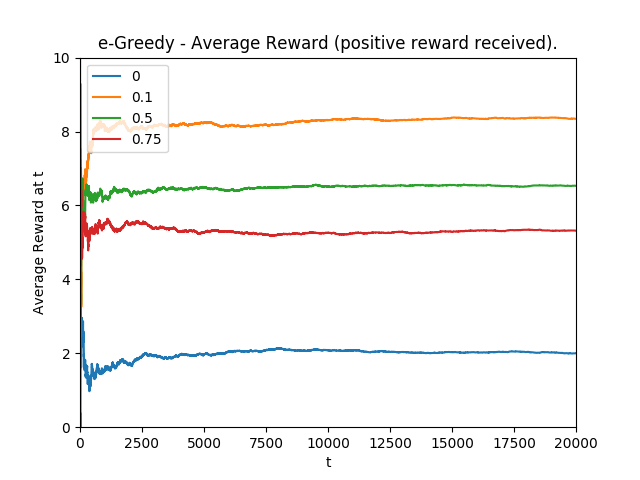
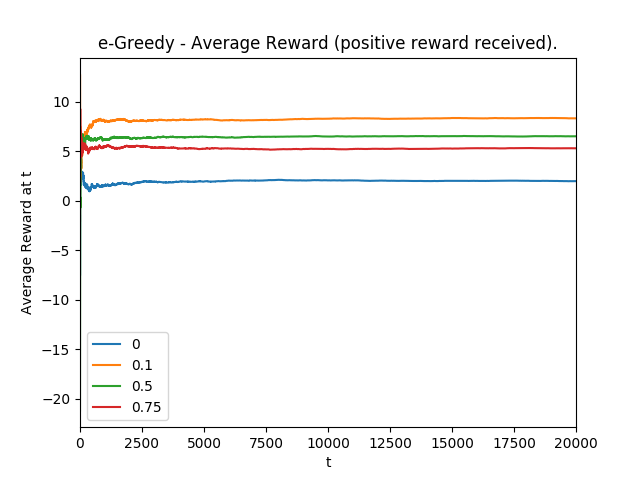
Updating the Incremental

diff --git a/RLBook/nArmedBandit/Incremental.py b/RLBook/nArmedBandit/Incremental.py
@@ -5,3 +5,146 @@
 *   From: 2.5
 
 """
+import numpy as np
+
+from RLBook.nArmedBandit.Extras import PolicyEnum
+
+DEFAULT_EPSILON = [0, 0.01, 0.1]
+np.random.seed(191989)
+
+
+class Incremental:
+    """ Incremental Policy Action
+    """
+    POLICY_TYPE = PolicyEnum.INCREMENTAL
+    ACTION_REWARDS = None
+    EPSILON = DEFAULT_EPSILON
+    ACTIONS = None
+    BANDITS = 1
+    TRIAL_COUNT = 1
+    EPSILON_COUNT = 3
+    ALPHA = None
+
+    def __init__(self, num, trials, epsilon=None, alpha=None):
+        """ Initialise a e-Greedy Policy
+
+            :param num:         Number of Bandits in use
+            :param trials:      Number of Trials to run for
+            :param epsilon:     List of Epsilons
+
+        """
+        # params:
+        self.N_BANDITS = num
+        self.TRIAL_COUNT = trials
+
+        if alpha is not None:
+            self.ALPHA = alpha
+
+        # Using alternative epsilons
+        if epsilon is not None:
+            self.EPSILON = epsilon
+            self.count_epsilons()
+
+        # Storage for Action Rewards
+        self.ACTION_REWARDS = np.zeros(shape=(num, self.EPSILON_COUNT))
+        self.ACTION_COUNTS = np.zeros(shape=(num, self.EPSILON_COUNT))
+
+        # Storage for Action Take
+        self.ACTIONS = np.zeros(shape=(trials, self.EPSILON_COUNT))
+
+    def __repr__(self):
+        return "< e-Greedy [nBandits {}, nTrials {}, epsilons {}] >".format(self.N_BANDITS,
+                                                                            self.TRIAL_COUNT,
+                                                                            self.EPSILON)
+
+    def count_epsilons(self):
+        self.EPSILON_COUNT = len(self.EPSILON)
+
+    def random_action(self, index):
+        a = np.random.randint(self.N_BANDITS, size=1)
+
+        # If the Action is the same as the Greedy Action attempt to get another... exploration
+        if a == self.greedy_action(index=index):
+            return np.random.randint(self.N_BANDITS, size=1)
+        # Otherwise
+        else:
+            return a
+
+    def greedy_action(self, index):
+        """ Take a Greedy Action
+
+            :param index:
+            :return:
+
+        """
+        return np.argmax(np.nan_to_num(self.ACTION_REWARDS[:, index]))
+
+    def update_count(self, index, action):
+        """ Increase the Action Count when used and log the result
+
+            :param index:
+            :param action:
+            :return:
+
+        """
+        self.ACTION_COUNTS[action, index] += 1
+
+    def record_action(self, time, index, action):
+        """ Log the Action in an Array
+
+            :param time:
+            :param index:
+            :param action:
+            :return:
+
+        """
+        self.ACTIONS[time, index] = action
+
+    def take_action(self, time):
+        """ Take an Action using the Policies
+
+            :param time:
+            :return:
+
+        """
+        actions = []
+        for index, epsilon in enumerate(self.EPSILON):
+            # Get the Greedy and Random Action
+            choices = [self.greedy_action(index=index), self.random_action(index=index)]
+            # Select an Action
+            action = np.random.choice(choices, p=[1 - epsilon, epsilon])
+
+            # Update the Count
+            self.update_count(action=action, index=index)
+            self.record_action(index=index, action=action, time=time)
+            actions.append(action)
+
+        return actions
+
+    def update_reward(self, index, action, reward):
+        """ Update a specific Reward Value
+
+            :param index:
+            :param action:
+            :param reward:
+            :return:
+
+        """
+        current = self.ACTION_REWARDS[action, index]
+        stepsize = self.ALPHA if self.ALPHA is not None else (1 / self.ACTION_COUNTS[action, index])
+        self.ACTION_REWARDS[action, index] = current + stepsize * (reward - current)
+
+    def update_rewards(self, rewards):
+        """ Update all the Temperature Reward values
+
+            :param rewards:
+            :return:
+
+        """
+        for index, (action, reward) in enumerate(rewards):
+            self.update_reward(index=index, action=action, reward=reward)
+
+    def show_settings(self, p=True):
+        if p:
+            print(self.EPSILON)
+        return self.EPSILON

diff --git a/RLBook/nArmedBandit/main.py b/RLBook/nArmedBandit/main.py
@@ -11,42 +11,50 @@ Testable so far:
 
 *   e-Greedy
 *   Softmax
+*   Linear, reward-penalty
+*   Linear, reward-inaction
+*   Incremental
 
 """
-from RLBook.nArmedBandit.Extras import PolicyEnum
-from RLBook.nArmedBandit.ModellingEnvironment import ModelEnvironment
 
 if __name__ == '__main__':
     # params:
-    bandits = 1
-    trials = 2000
+    trials = 20000
 
     # Initialise a e-Greedy Environment
-    # env1 = ModelEnvironment(trials=trials, bandits=bandits, policy=PolicyEnum.EGREEDY,
+    # env1 = ModelEnvironment(trials=trials, bandits=10, policy=PolicyEnum.EGREEDY,
     #                         epsilons=[0, 0.1, 0.5, 0.75])
     # env1.run()
     # env1.print_results()
     # env1.generate_charts()
-    # Positive Rewards Achieved:  [11566 15962 14627 13938]
+    # MAX: 15962
 
     # Initialise a Softmax Environment
-    # env2 = ModelEnvironment(trials=trials, bandits=bandits, policy=PolicyEnum.SOFTMAX,
+    # env2 = ModelEnvironment(trials=trials, bandits=10, policy=PolicyEnum.SOFTMAX,
     #                         temperatures=[0.000001, 0.1, 0.5, 0.75])
     # env2.run()
     # env2.print_results()
     # env2.generate_charts()
-    # [10095 15768 16248 15537]
+    # MAX: 16248
 
     # Initialise a Linear, reward-penalty Policy
-    # env3 = ModelEnvironment(trials=trials, bandits=bandits, policy=PolicyEnum.LINEAR_REWARD_PENALTY,
+    # env3 = ModelEnvironment(trials=trials, bandits=1, policy=PolicyEnum.LINEAR_REWARD_PENALTY,
     #                         epsilons=[0, 0.1, 0.5, 0.75], alpha=0.1)
     # env3.run()
     # env3.print_results()
     # env3.generate_charts()
 
     # Initialise a Linear, reward-inaction Policy
-    env4 = ModelEnvironment(trials=trials, bandits=bandits, policy=PolicyEnum.LINEAR_REWARD_INACTION,
-                            epsilons=[0, 0.1, 0.5, 0.75], alpha=0.1, probability=0.2)
-    env4.run()
-    env4.print_results()
-    env4.generate_charts()
+    # env4 = ModelEnvironment(trials=trials, bandits=1, policy=PolicyEnum.LINEAR_REWARD_INACTION,
+    #                         epsilons=[0, 0.1, 0.5, 0.75], alpha=0.1, probability=0.2)
+    # env4.run()
+    # env4.print_results()
+    # env4.generate_charts()
+
+    # Initialise a Linear, reward-inaction Policy
+    # env5 = ModelEnvironment(trials=trials, bandits=10, policy=PolicyEnum.INCREMENTAL,
+    #                         epsilons=[0, 0.001, 0.01, 0.1], alpha=0.07)
+    # env5.run()
+    # env5.print_results()
+    # env5.generate_charts()
+    # MAX: 16099

diff --git a/RLBook/nArmedBandit/ModellingEnvironment.py b/RLBook/nArmedBandit/ModellingEnvironment.py
@@ -14,6 +14,7 @@ import pandas as pd
 from RLBook.nArmedBandit.Bandits import NArmBandit
 from RLBook.nArmedBandit.EGreedy import EGreedy
 from RLBook.nArmedBandit.Extras import MissingPolicyException, PolicyEnum
+from RLBook.nArmedBandit.Incremental import Incremental
 from RLBook.nArmedBandit.LinearRewardInaction import LinearInaction
 from RLBook.nArmedBandit.LinearRewardPenalty import LinearPenalty
 from RLBook.nArmedBandit.Softmax import Softmax
@@ -88,6 +89,10 @@ class ModelEnvironment:
             self.POLICY = LinearInaction(num=self.BANDIT_COUNT, trials=self.TRIAL_COUNT,
                                          epsilon=epsilons, alpha=alpha)
 
+        elif policy == PolicyEnum.INCREMENTAL:
+            self.POLICY = Incremental(num=self.BANDIT_COUNT, trials=self.TRIAL_COUNT,
+                                      epsilon=epsilons, alpha=alpha)
+
         else:
             raise NotImplementedError
 
@@ -111,7 +116,7 @@ class ModelEnvironment:
             self.POLICY.update_rewards(rewards=rewards)
 
     def print_results(self):
-        """ TODO
+        """ Display Results in the Console
         """
         # Positive Rewards
         self.POLICY.show_settings()
@@ -156,7 +161,6 @@ class ModelEnvironment:
 
             plt.figure()
             average_reward.plot(x='t')
-            plt.ylim((0, 10))
             plt.title("{} - Average Reward (positive reward received).".format(self.POLICY_NAME))
             plt.ylabel("Average Reward at t")
             plt.savefig("Plots/{}_Average_Reward.png".format(self.POLICY_NAME))

diff --git a/RLBook/nArmedBandit/Extras.py b/RLBook/nArmedBandit/Extras.py
@@ -26,6 +26,7 @@ class PolicyEnum:
     LINEAR_REWARD_PENALTY = "Linear, reward-penalty"
     LINEAR_REWARD_INACTION = "Linear, reward-inaction"
     BINARY_POLICIES = [LINEAR_REWARD_INACTION, LINEAR_REWARD_PENALTY]
+    INCREMENTAL = "Incremental"
 
     def __repr__(self):
         return "< Policy Enum >"
